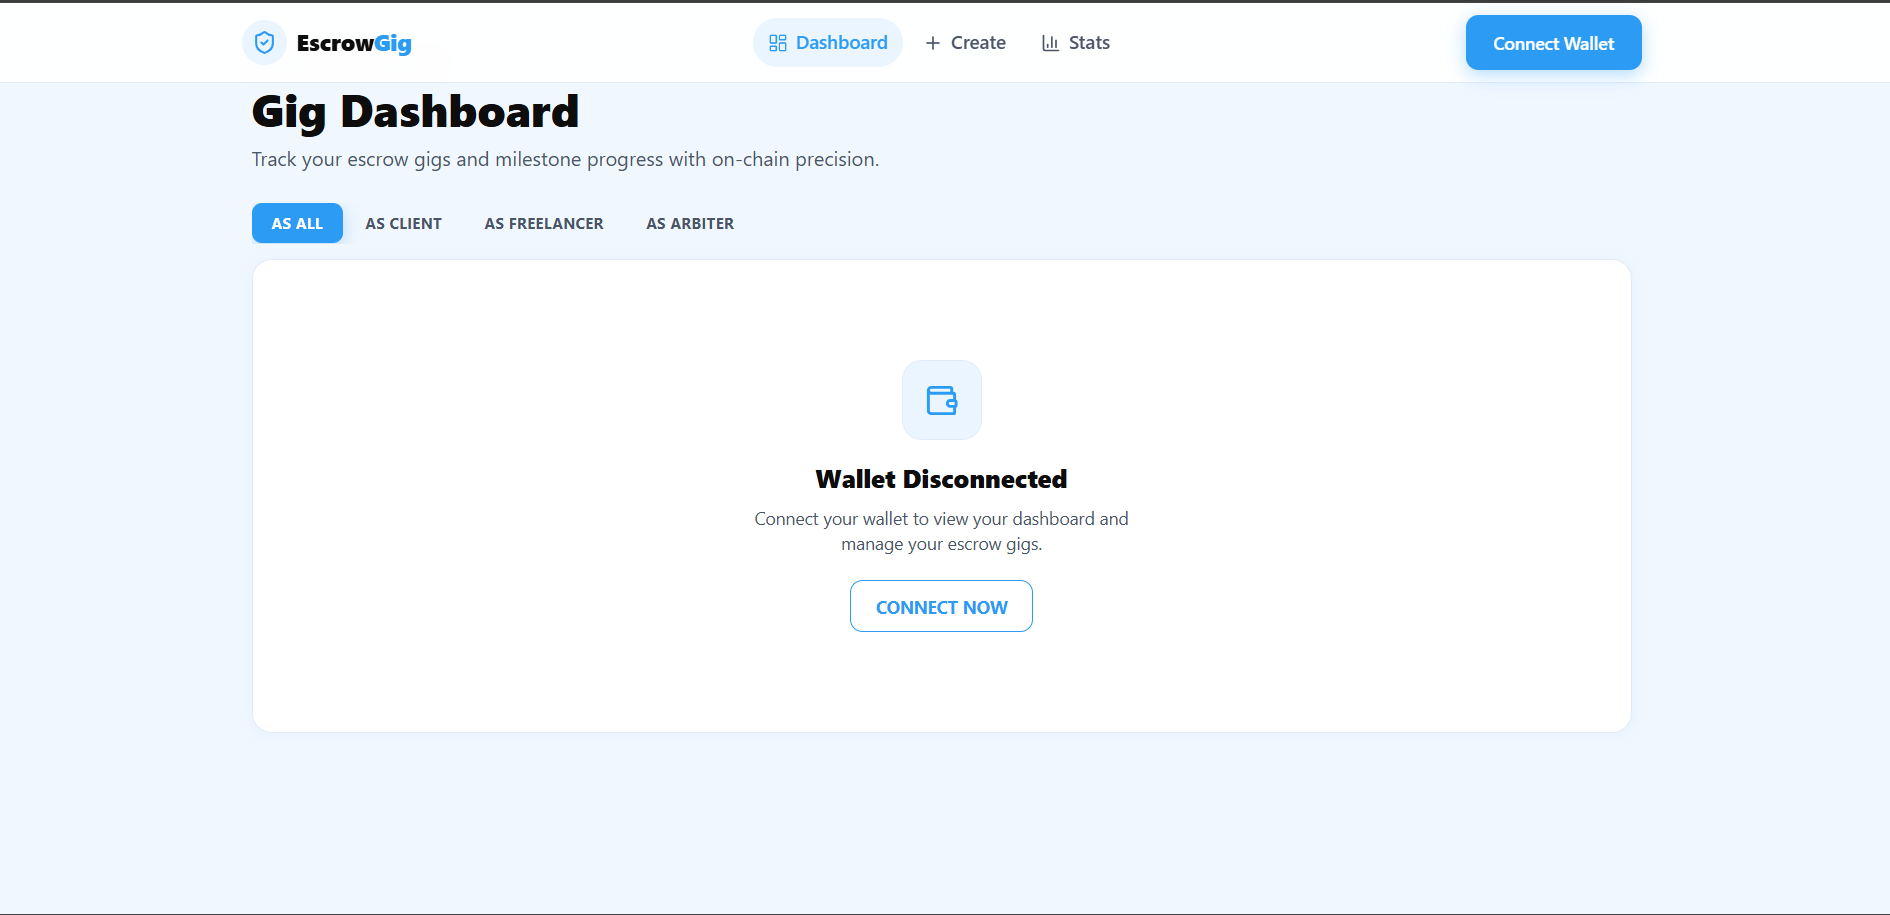
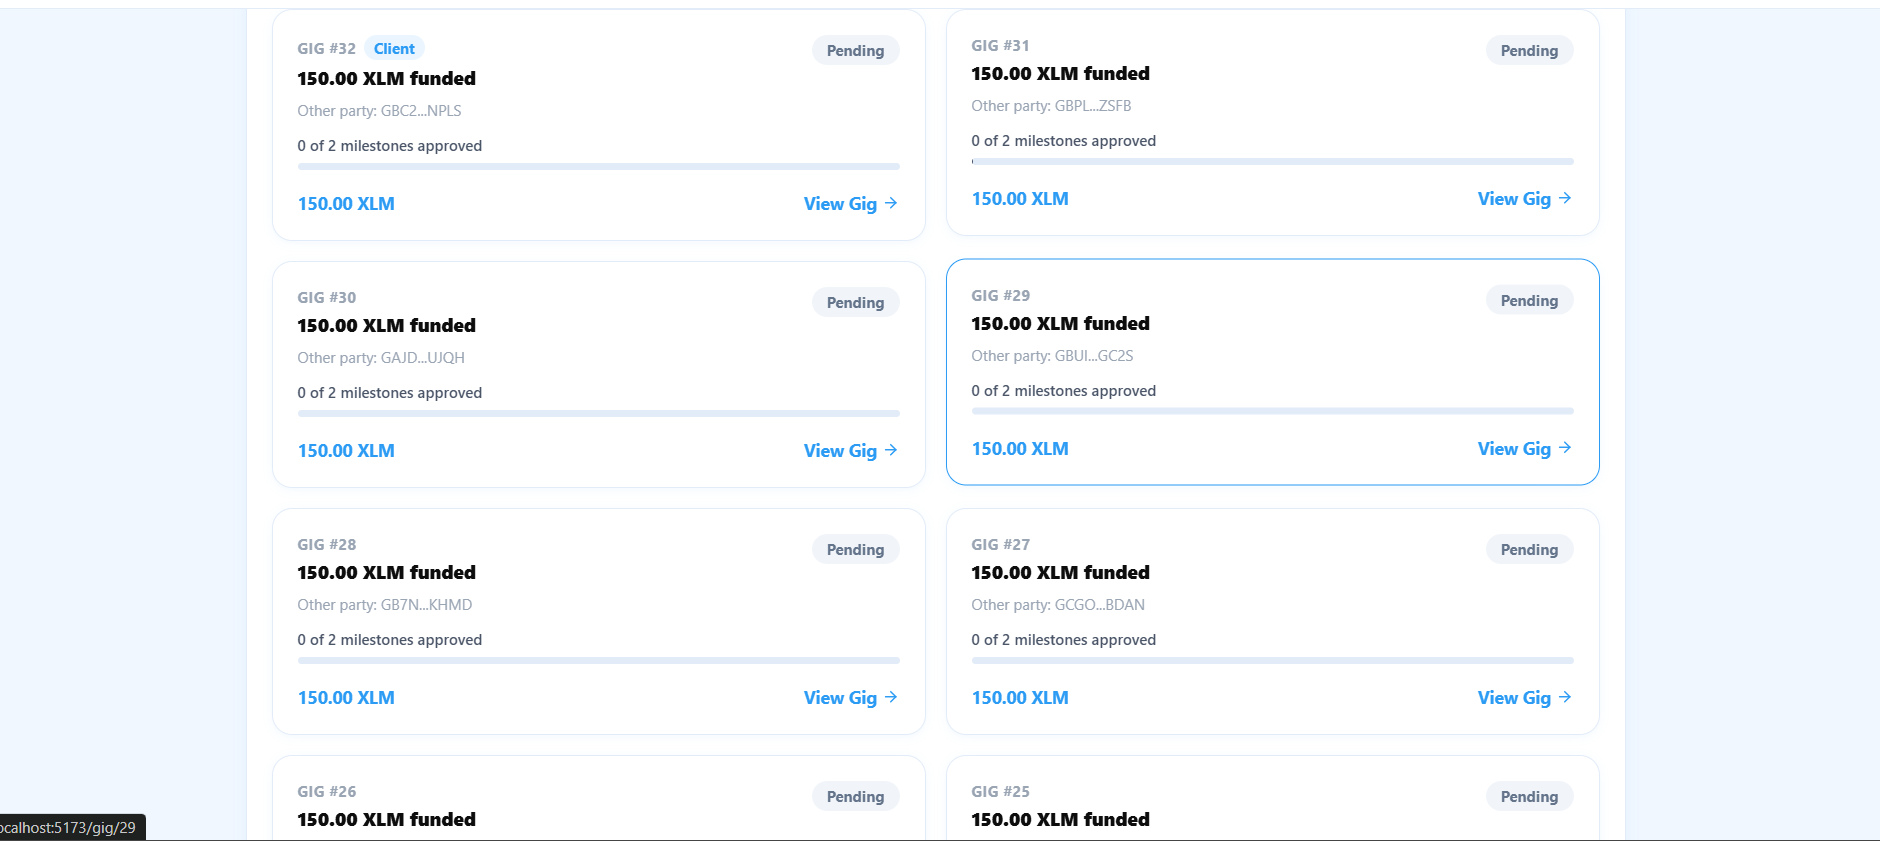
readme fixed

diff --git a/README.md b/README.md
@@ -46,7 +46,7 @@ The repository includes a Soroban Rust smart contract and a React + TypeScript f
   </table>
 </div>
 
-### 🖥️ Desktop — Dashboard
+### 🖥️ 10+ User Interaction
 
 <div align="center">
   <table>